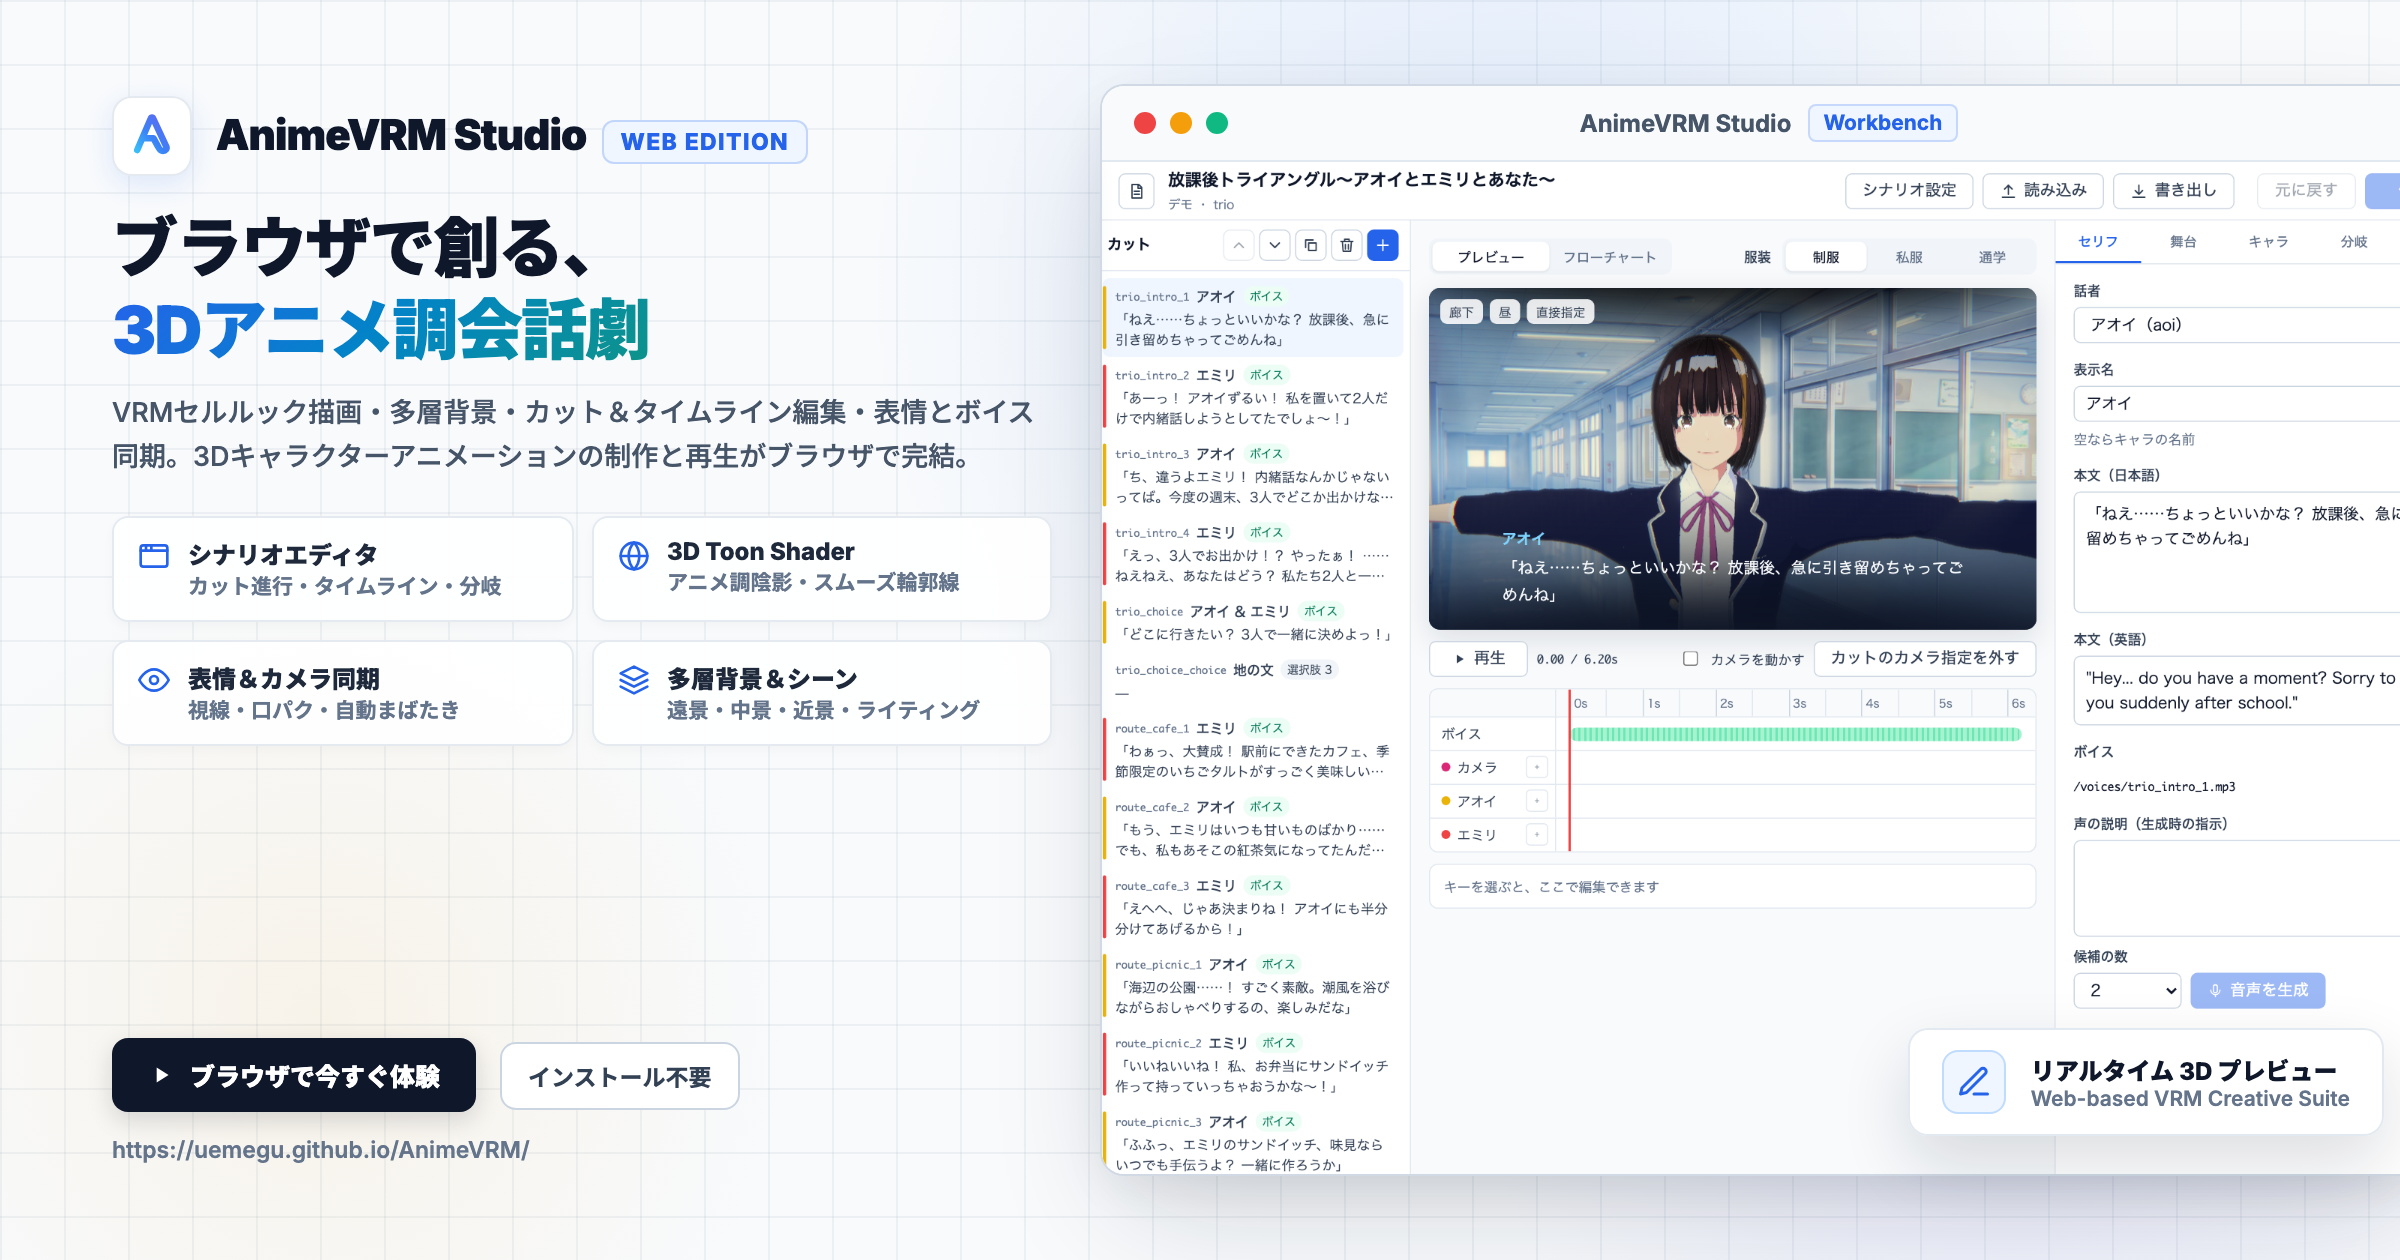
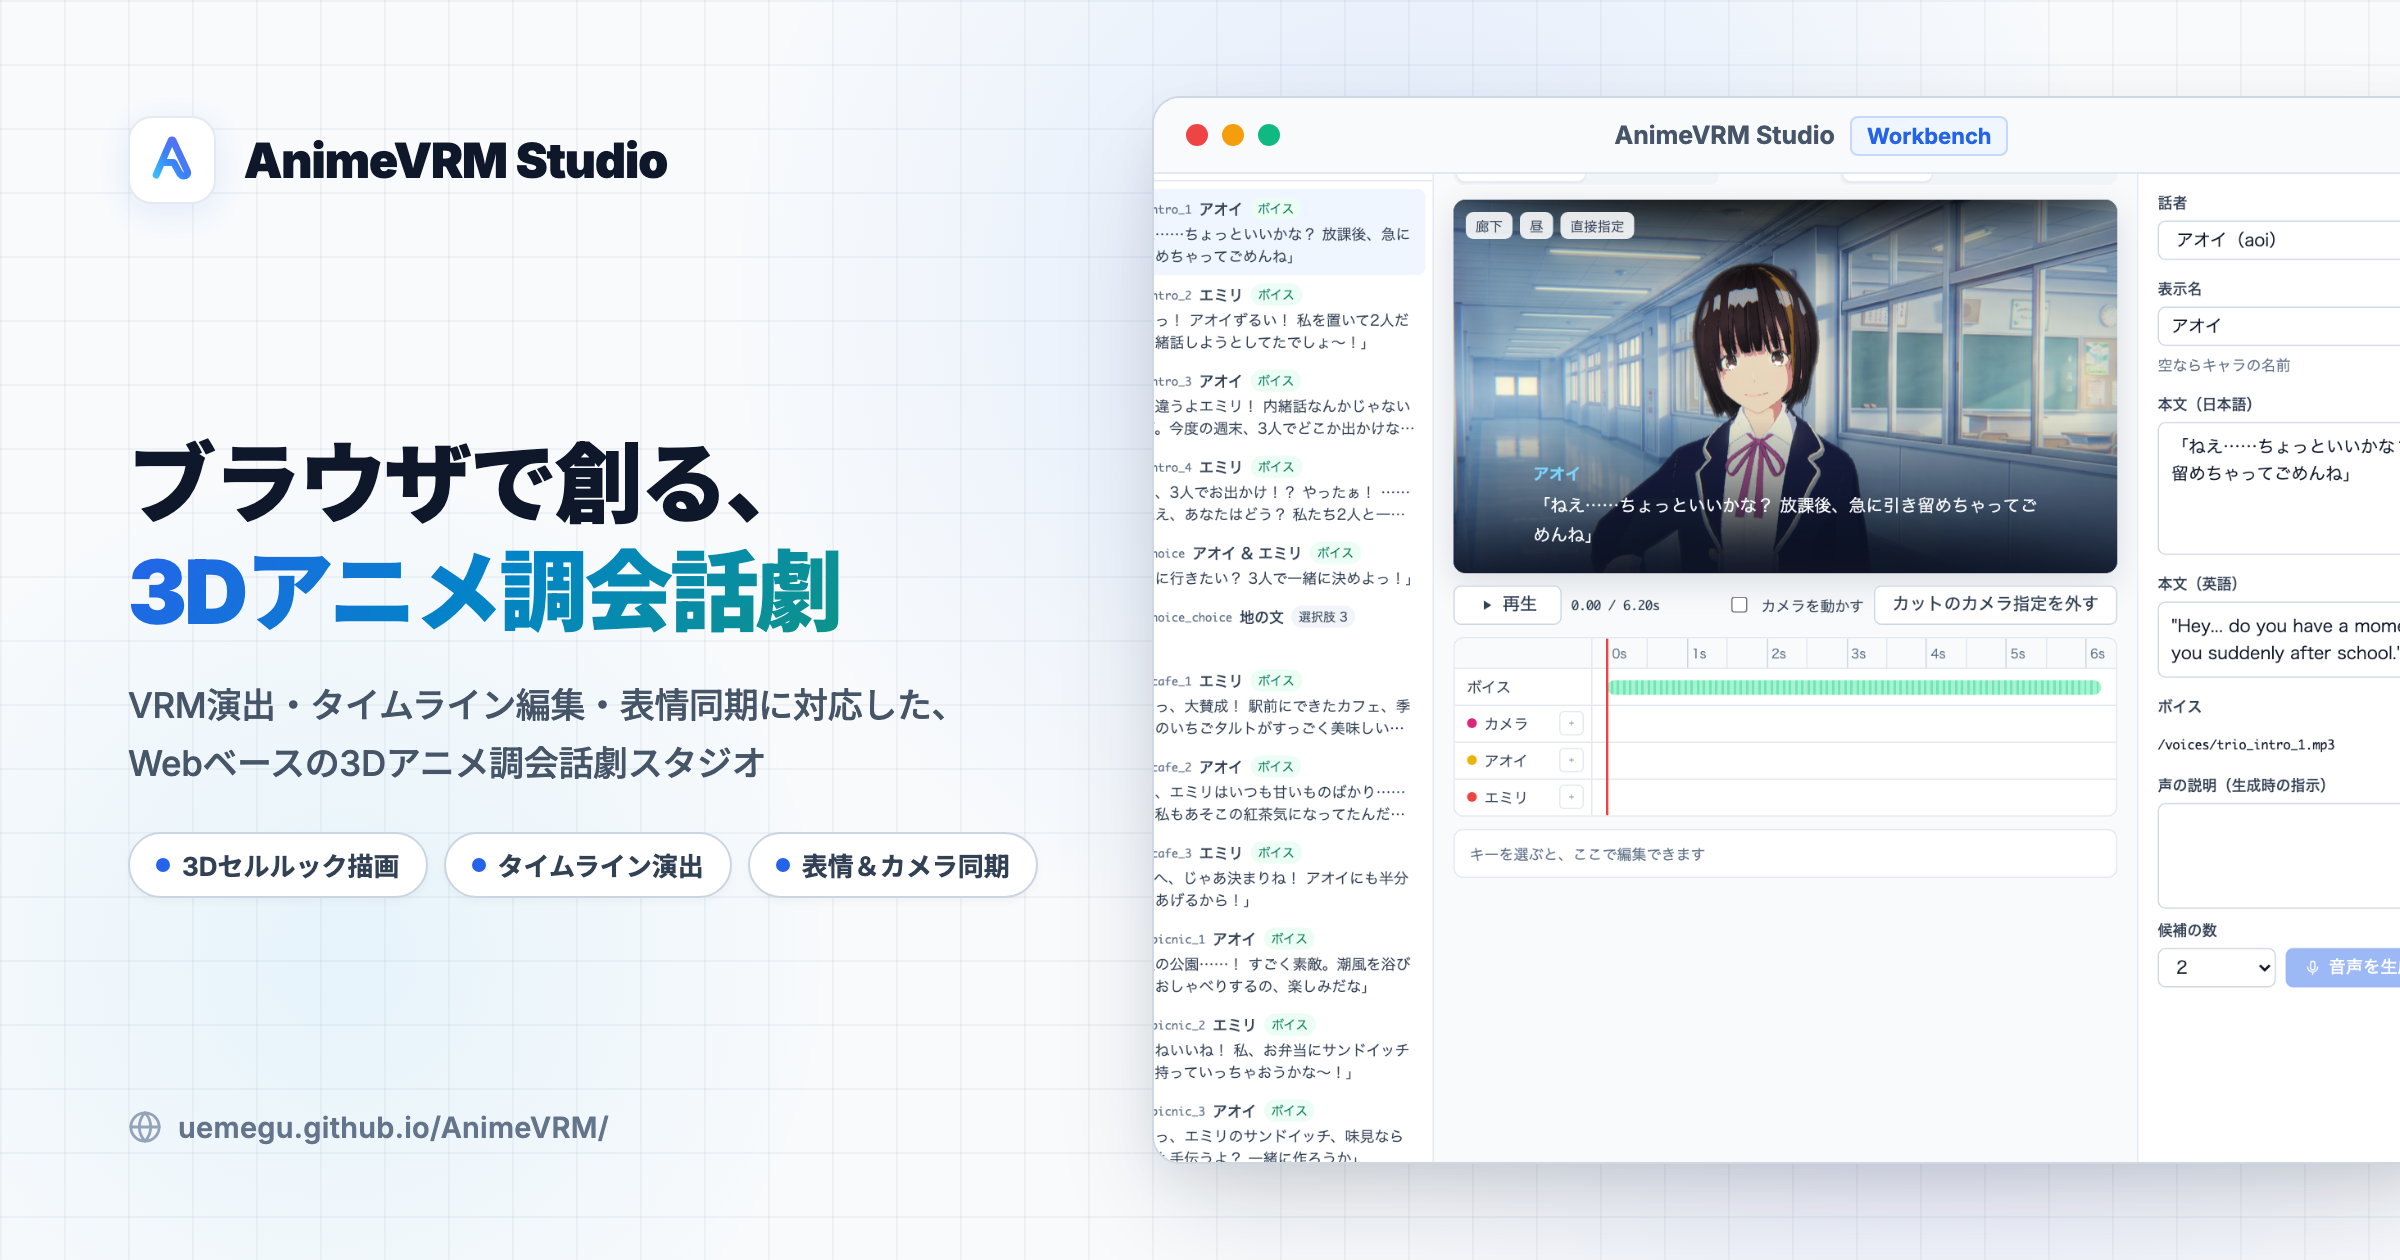
Studio の OGP 画像を更新する

diff --git a/assets/ogp/studio_product_ogp.html b/assets/ogp/studio_product_ogp.html
@@ -1,0 +1,346 @@
+<!DOCTYPE html>
+<html lang="ja">
+<head>
+  <meta charset="UTF-8">
+  <title>AnimeVRM Studio Product OGP</title>
+  <link rel="preconnect" href="https://fonts.googleapis.com">
+  <link rel="preconnect" href="https://fonts.gstatic.com" crossorigin>
+  <link href="https://fonts.googleapis.com/css2?family=Inter:wght@500;600;700;800;900&family=Noto+Sans+JP:wght@500;700;900&display=swap" rel="stylesheet">
+  <style>
+    * { box-sizing: border-box; margin: 0; padding: 0; }
+    body {
+      width: 1200px;
+      height: 630px;
+      overflow: hidden;
+      background: #f8fafc;
+      font-family: 'Inter', 'Noto Sans JP', sans-serif;
+      display: flex;
+      align-items: center;
+      justify-content: center;
+    }
+    .canvas {
+      width: 1200px;
+      height: 630px;
+      position: relative;
+      background: #f8fafc;
+      overflow: hidden;
+    }
+
+    /* Background Gradients & Subtle Grid */
+    .bg-grid {
+      position: absolute;
+      inset: 0;
+      background-image: 
+        linear-gradient(to right, rgba(148, 163, 184, 0.10) 1px, transparent 1px),
+        linear-gradient(to bottom, rgba(148, 163, 184, 0.10) 1px, transparent 1px);
+      background-size: 32px 32px;
+      pointer-events: none;
+    }
+    .glow-blue {
+      position: absolute;
+      width: 700px;
+      height: 700px;
+      border-radius: 50%;
+      background: radial-gradient(circle, rgba(59, 130, 246, 0.13) 0%, rgba(59, 130, 246, 0) 70%);
+      top: -200px;
+      right: 140px;
+      pointer-events: none;
+    }
+    .glow-indigo {
+      position: absolute;
+      width: 600px;
+      height: 600px;
+      border-radius: 50%;
+      background: radial-gradient(circle, rgba(99, 102, 241, 0.09) 0%, rgba(99, 102, 241, 0) 70%);
+      bottom: -160px;
+      right: -60px;
+      pointer-events: none;
+    }
+    .glow-sky {
+      position: absolute;
+      width: 500px;
+      height: 500px;
+      border-radius: 50%;
+      background: radial-gradient(circle, rgba(14, 165, 233, 0.08) 0%, rgba(14, 165, 233, 0) 70%);
+      bottom: -100px;
+      left: -80px;
+      pointer-events: none;
+    }
+
+    /* Left Column: Focused, Clean Typography */
+    .left-col {
+      position: absolute;
+      left: 64px;
+      top: 58px;
+      bottom: 58px;
+      width: 520px;
+      z-index: 20;
+      display: flex;
+      flex-direction: column;
+      justify-content: space-between;
+    }
+
+    .brand-row {
+      display: flex;
+      align-items: center;
+      gap: 14px;
+    }
+    .brand-icon-box {
+      width: 44px;
+      height: 44px;
+      border-radius: 12px;
+      background: #ffffff;
+      border: 1px solid rgba(226, 232, 240, 0.9);
+      display: flex;
+      align-items: center;
+      justify-content: center;
+      box-shadow: 0 4px 16px rgba(37, 99, 235, 0.10);
+    }
+    .brand-svg {
+      width: 30px;
+      height: 30px;
+    }
+    .brand-title {
+      font-size: 24px;
+      font-weight: 900;
+      color: #0f172a;
+      letter-spacing: -0.02em;
+    }
+
+    .headline-wrap {
+      display: flex;
+      flex-direction: column;
+      gap: 16px;
+      margin-top: 8px;
+    }
+    .main-heading {
+      font-size: 44px;
+      font-weight: 900;
+      line-height: 1.22;
+      color: #0f172a;
+      letter-spacing: -0.03em;
+    }
+    .main-heading .gradient-text {
+      background: linear-gradient(135deg, #2563eb 0%, #0284c7 50%, #0d9488 100%);
+      -webkit-background-clip: text;
+      -webkit-text-fill-color: transparent;
+    }
+    .sub-copy {
+      font-size: 17.5px;
+      line-height: 1.62;
+      color: #475569;
+      font-weight: 500;
+      letter-spacing: -0.01em;
+    }
+
+    /* Key Features: Large, clear badges without tiny text */
+    .features-row {
+      display: flex;
+      align-items: center;
+      gap: 8px;
+      margin-top: 4px;
+    }
+    .feature-pill {
+      display: inline-flex;
+      align-items: center;
+      gap: 6px;
+      background: #ffffff;
+      border: 1px solid #cbd5e1;
+      padding: 6px 13px;
+      border-radius: 9999px;
+      font-size: 13px;
+      font-weight: 700;
+      color: #334155;
+      box-shadow: 0 2px 4px rgba(15, 23, 42, 0.03);
+    }
+    .feature-pill-dot {
+      width: 7px;
+      height: 7px;
+      border-radius: 50%;
+      background: #2563eb;
+    }
+
+    /* Bottom URL Info */
+    .url-row {
+      display: flex;
+      align-items: center;
+      gap: 8px;
+      color: #64748b;
+      font-size: 14.5px;
+      font-weight: 600;
+      letter-spacing: 0.01em;
+    }
+    .url-icon {
+      width: 17px;
+      height: 17px;
+      color: #94a3b8;
+    }
+
+    /* Right Showcase: Real Studio Workbench Window */
+    .right-showcase {
+      position: absolute;
+      right: -36px;
+      top: 48px;
+      bottom: 48px;
+      width: 660px;
+      z-index: 10;
+      display: flex;
+      align-items: center;
+    }
+
+    .window-card {
+      width: 100%;
+      height: 534px;
+      background: #ffffff;
+      border-radius: 14px;
+      border: 1px solid rgba(203, 213, 225, 0.95);
+      box-shadow: 
+        0 24px 60px -12px rgba(15, 23, 42, 0.18),
+        0 8px 24px -4px rgba(15, 23, 42, 0.08);
+      overflow: hidden;
+      display: flex;
+      flex-direction: column;
+      position: relative;
+    }
+
+    .window-header {
+      height: 38px;
+      background: #f8fafc;
+      border-bottom: 1px solid #e2e8f0;
+      display: flex;
+      align-items: center;
+      padding: 0 16px;
+      justify-content: space-between;
+      flex-shrink: 0;
+    }
+    .window-dots {
+      display: flex;
+      align-items: center;
+      gap: 7px;
+    }
+    .dot-red { width: 11px; height: 11px; border-radius: 50%; background: #ef4444; }
+    .dot-yellow { width: 11px; height: 11px; border-radius: 50%; background: #f59e0b; }
+    .dot-green { width: 11px; height: 11px; border-radius: 50%; background: #10b981; }
+
+    .window-title {
+      font-size: 12.5px;
+      font-weight: 700;
+      color: #475569;
+      display: flex;
+      align-items: center;
+      gap: 8px;
+    }
+    .window-badge {
+      font-size: 11px;
+      background: #eff6ff;
+      color: #2563eb;
+      border: 1px solid rgba(37, 99, 235, 0.2);
+      padding: 2px 7px;
+      border-radius: 4px;
+      font-weight: 700;
+    }
+
+    .window-body {
+      flex: 1;
+      position: relative;
+      overflow: hidden;
+      background: #ffffff;
+    }
+    .app-screen {
+      width: 108%;
+      height: 112%;
+      object-fit: cover;
+      object-position: -160px -56px;
+      display: block;
+    }
+  </style>
+</head>
+<body>
+  <div class="canvas">
+    <div class="bg-grid"></div>
+    <div class="glow-blue"></div>
+    <div class="glow-indigo"></div>
+    <div class="glow-sky"></div>
+
+    <!-- Left Column: Product Info -->
+    <div class="left-col">
+      <div class="brand-row">
+        <div class="brand-icon-box">
+          <svg viewBox="0 0 36 36" fill="none" class="brand-svg">
+            <defs>
+              <linearGradient id="studio-brand-gradient" x1="0%" y1="100%" x2="100%" y2="0%">
+                <stop offset="0%" stop-color="#38bdf8" />
+                <stop offset="45%" stop-color="#3b82f6" />
+                <stop offset="100%" stop-color="#6366f1" />
+              </linearGradient>
+            </defs>
+            <path
+              d="M 8.5 27 L 17.2 6.8 C 17.6 5.8 18.4 5.8 18.8 6.8 L 27.2 24.8 C 27.8 26.2 26.8 27.6 25 27.6 C 23.8 27.6 22.8 26.6 22 25 L 19 19.5 L 13.5 19.5"
+              stroke="url(#studio-brand-gradient)"
+              stroke-width="4.2"
+              stroke-linecap="round"
+              stroke-linejoin="round"
+            />
+          </svg>
+        </div>
+        <span class="brand-title">AnimeVRM Studio</span>
+      </div>
+
+      <div class="headline-wrap">
+        <h1 class="main-heading">
+          ブラウザで創る、<br>
+          <span class="gradient-text">3Dアニメ調会話劇</span>
+        </h1>
+        <p class="sub-copy">
+          VRM演出・タイムライン編集・表情同期に対応した、<br>
+          Webベースの3Dアニメ調会話劇スタジオ
+        </p>
+
+        <div class="features-row">
+          <span class="feature-pill">
+            <span class="feature-pill-dot"></span>
+            3Dセルルック描画
+          </span>
+          <span class="feature-pill">
+            <span class="feature-pill-dot"></span>
+            タイムライン演出
+          </span>
+          <span class="feature-pill">
+            <span class="feature-pill-dot"></span>
+            表情＆カメラ同期
+          </span>
+        </div>
+      </div>
+
+      <div class="url-row">
+        <svg class="url-icon" viewBox="0 0 24 24" fill="none" stroke="currentColor" stroke-width="2" stroke-linecap="round" stroke-linejoin="round">
+          <circle cx="12" cy="12" r="10"/>
+          <path d="M12 2a14.5 14.5 0 0 0 0 20 14.5 14.5 0 0 0 0-20M2 12h20"/>
+        </svg>
+        <span>uemegu.github.io/AnimeVRM/</span>
+      </div>
+    </div>
+
+    <!-- Right Column: Studio App UI Window -->
+    <div class="right-showcase">
+      <div class="window-card">
+        <div class="window-header">
+          <div class="window-dots">
+            <div class="dot-red"></div>
+            <div class="dot-yellow"></div>
+            <div class="dot-green"></div>
+          </div>
+          <div class="window-title">
+            <span>AnimeVRM Studio</span>
+            <span class="window-badge">Workbench</span>
+          </div>
+          <div style="width: 48px;"></div>
+        </div>
+        <div class="window-body">
+          <img src="studio_app_screen.png" alt="AnimeVRM Studio App" class="app-screen">
+        </div>
+      </div>
+    </div>
+  </div>
+</body>
+</html>
